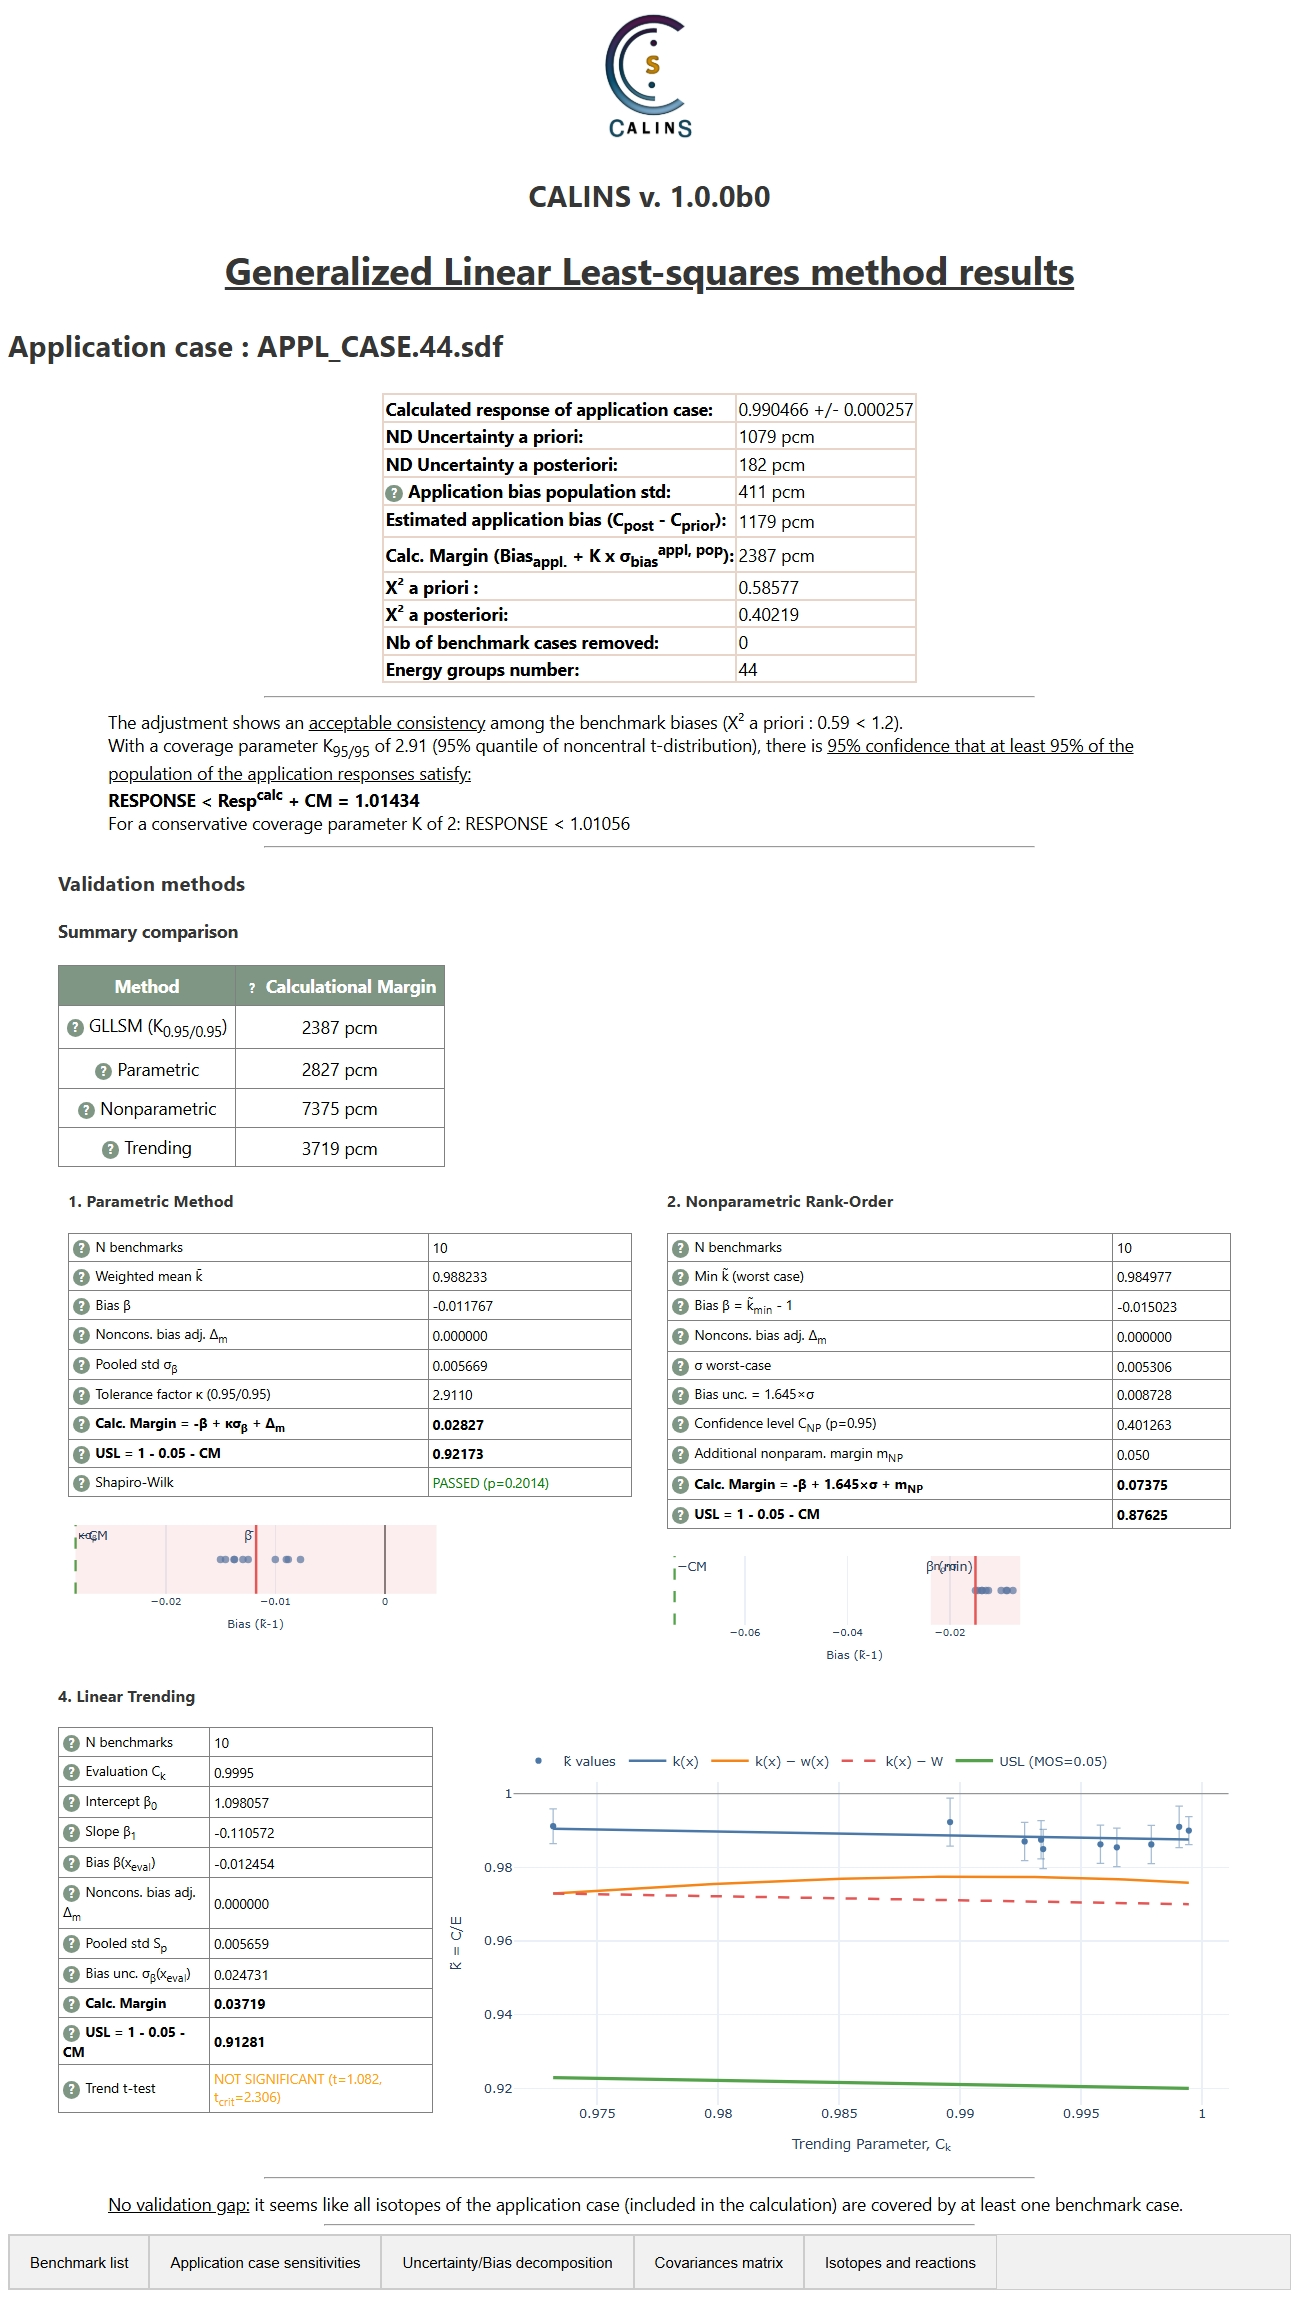
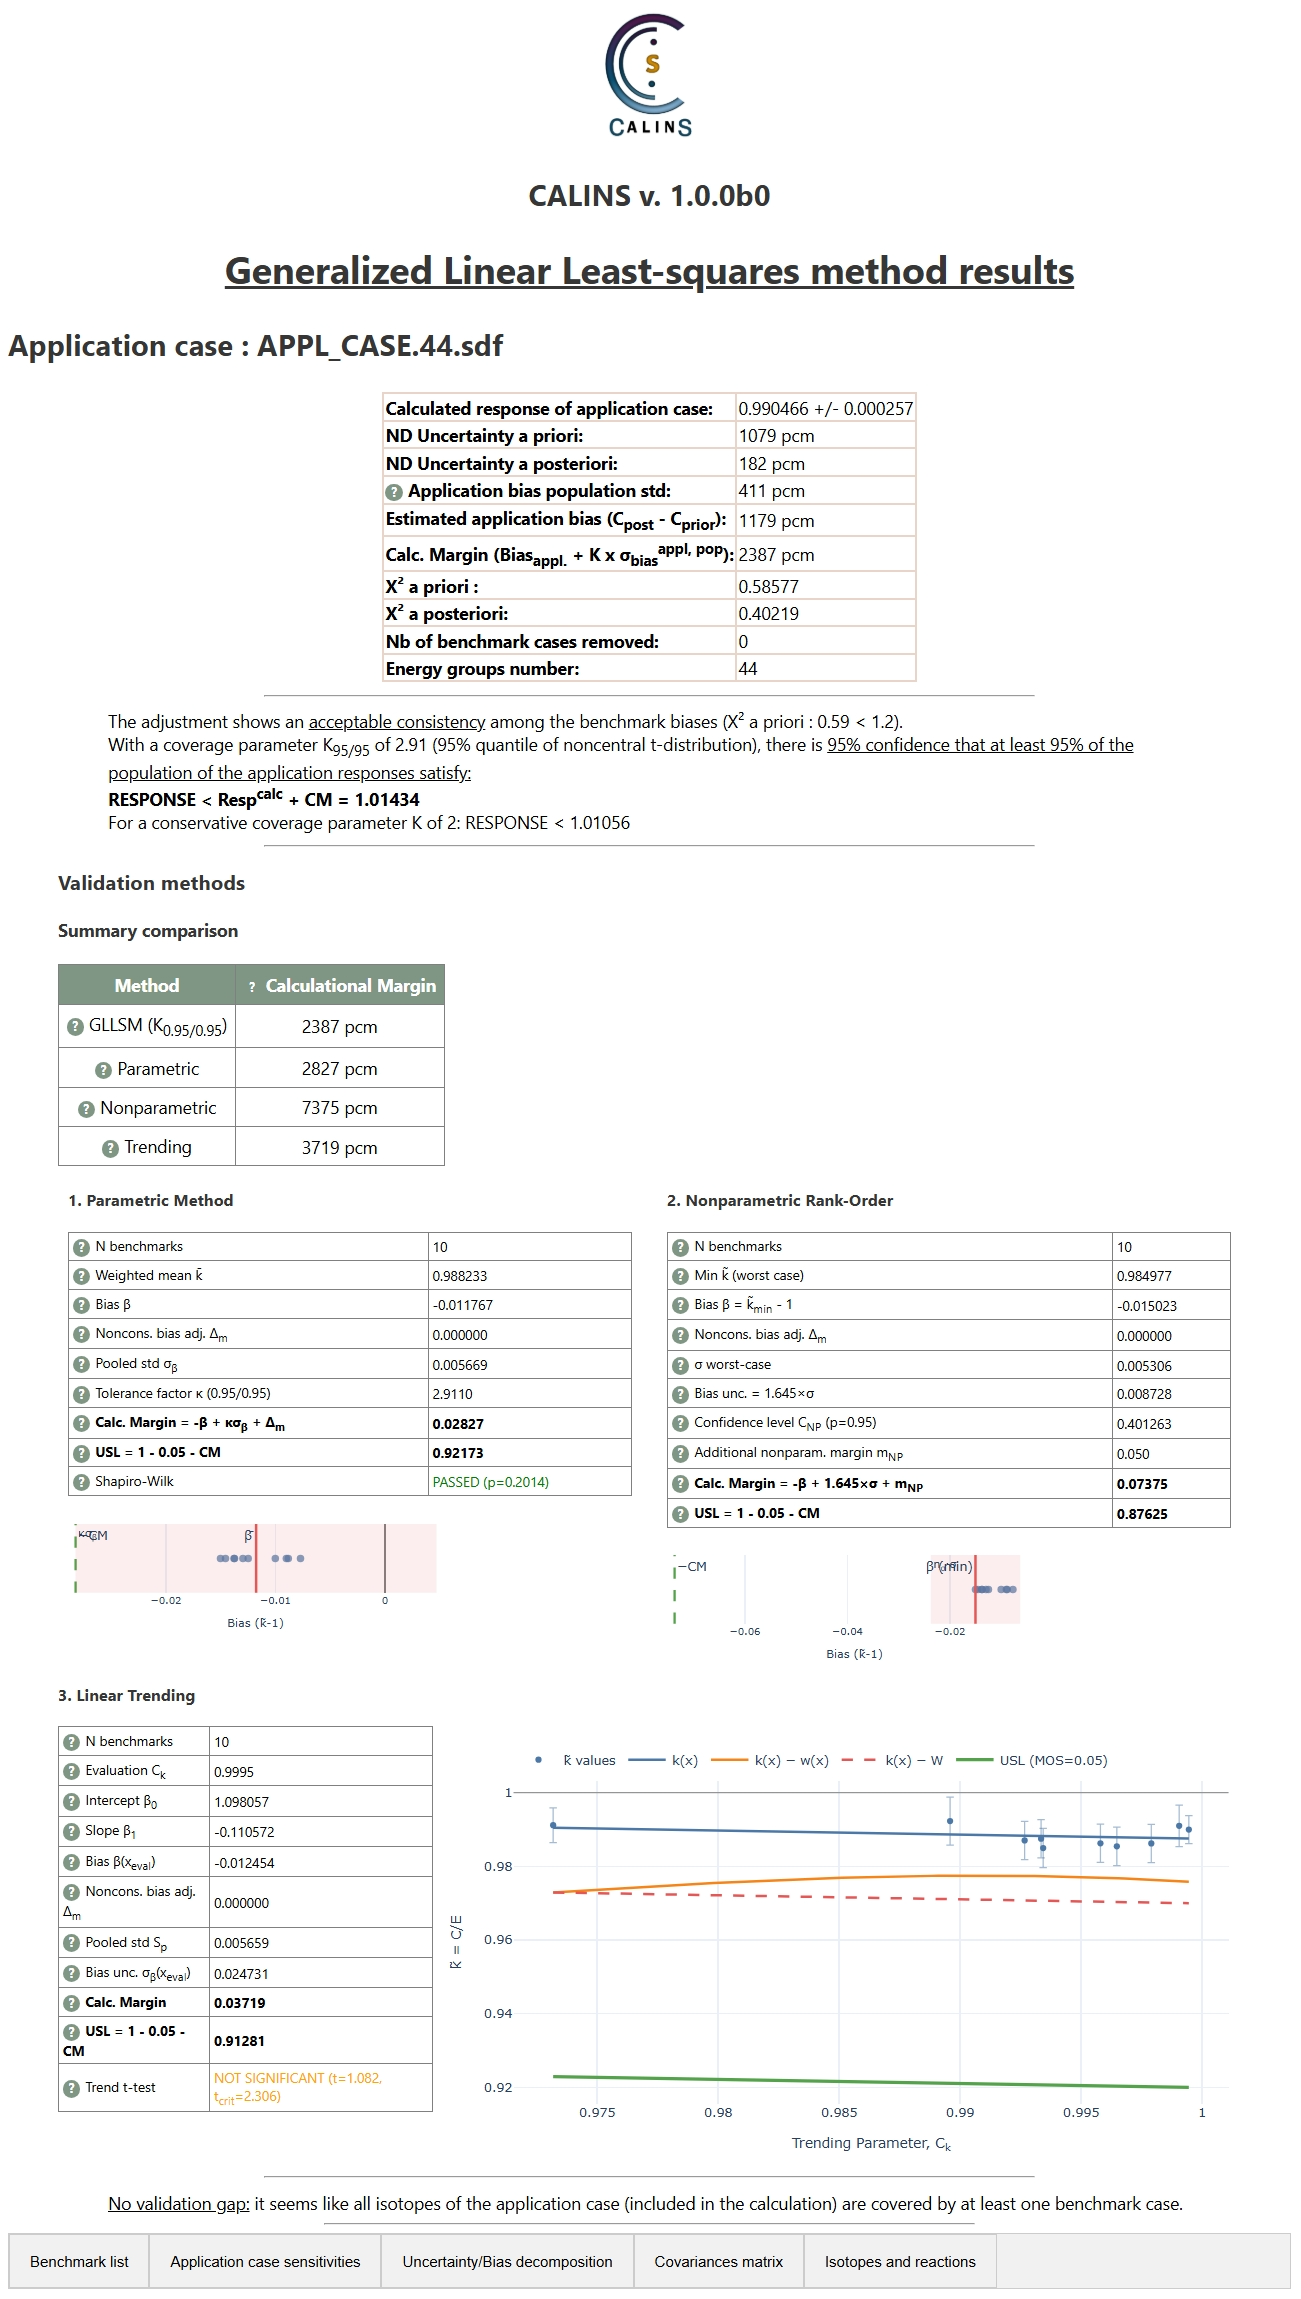
CORR : Doc front page

diff --git a/calins/src/version.py b/calins/src/version.py
@@ -1,2 +1,2 @@
 """Version file - automatically generated."""
-__version__ = "1.0.0b0.dev0+25559c3.20260522"
+__version__ = "1.0.0b0.dev0+41b3579.20260522"